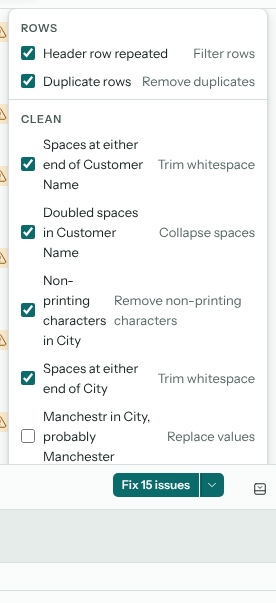
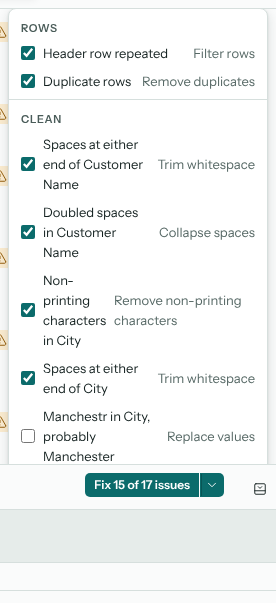
Docs screenshot capture accepts the Fix k of N issues label
Regenerates the analysing screenshots, which now show the new label.

Claude-Session: https://claude.ai/code/session_016e9sXovNKqLjSArvmoeefT

Changed region(s): [[0.2899, 0.7761, 0.5507, 0.8358]]

diff --git a/docs/screenshots/capture.spec.ts b/docs/screenshots/capture.spec.ts
@@ -130,7 +130,7 @@ test('analysing a file', async ({ page }) => {
   await issues.getByRole('button', { name: 'Choose fixes' }).click();
   await shot(page, 'analysing-choose-fixes', page.getByRole('dialog', { name: 'Choose fixes' }));
   await page.keyboard.press('Escape');
-  await issues.getByTestId('fix-all').getByRole('button', { name: /^Fix \d+ issues$/ }).click();
+  await issues.getByTestId('fix-all').getByRole('button', { name: /^Fix \d+ (of \d+ )?issues$/ }).click();
   await expect(page.getByTestId('group-Fixes')).toBeVisible({ timeout: 30_000 });
   await expect(page.getByTestId('results-table')).toHaveAttribute('aria-label', /^Results of Transform \d+/, { timeout: 30_000 });
   await page.getByRole('button', { name: 'Auto layout' }).click();
